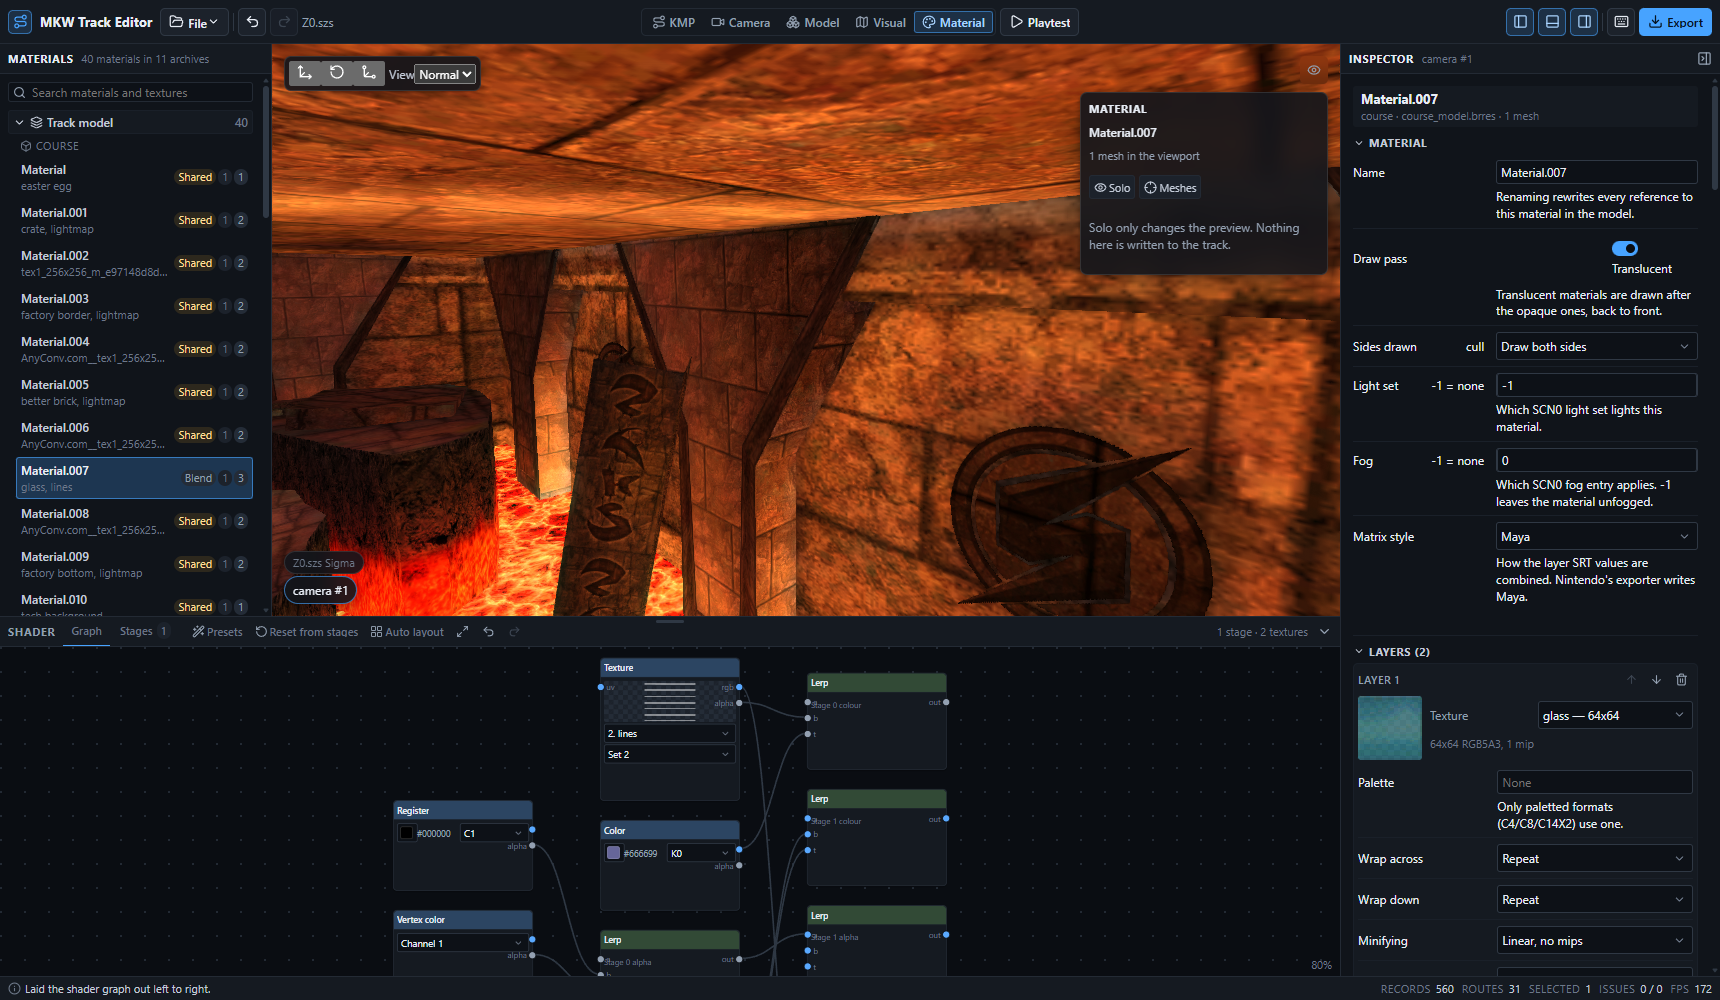
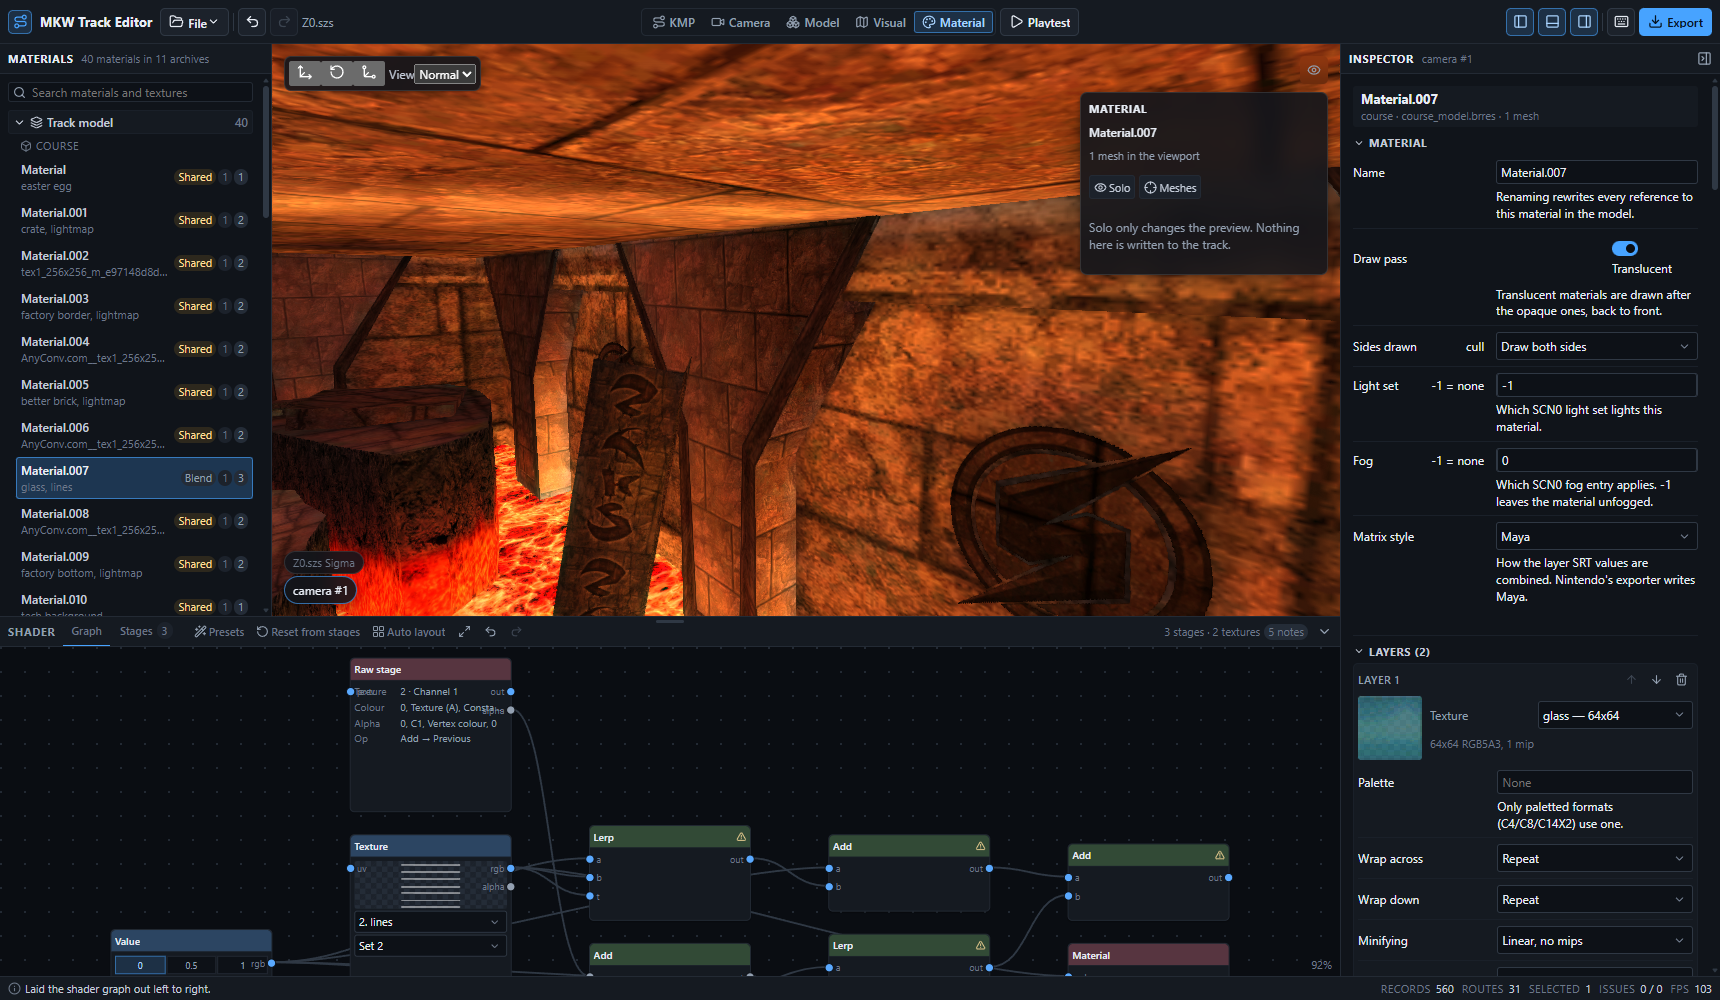
Material mode: probe the real library, refresh the screenshots and the docs
The probe now also checks the raw-stage card is read-only, applies the "Lit
texture" preset and confirms it turned channel-0 lighting on, and falls back to
the inspector's constant swatches when a material's graph has no Color node.

docs/MATERIALS.md keeps the library half's section and fills in the editor's,
with the numbers from a real run on Z0.szs.

diff --git a/scripts/probe-material-ui.js b/scripts/probe-material-ui.js
@@ -137,6 +137,12 @@ out.graphNodes = qa('.graphNode').length;
 out.graphNodeTitles = [...new Set(qa('.graphNodeTitle').map((n) => n.textContent.trim()))];
 out.graphWires = qa('.graphWire').length;
 out.graphStatus = q('.materialDockStatusText')?.textContent.trim() ?? null;
+// A stage the graph cannot express comes back as a read-only "Raw stage" card, so nothing is
+// silently lost when a material is opened.
+out.rawStageCards = qa('.graphRawStage').length;
+out.rawStageEditable = qa('.graphNode').some((n) =>
+  n.querySelector('.graphNodeTitle')?.textContent.trim() === 'Raw stage' &&
+  n.querySelector('input, select, textarea') !== null);
 out.graphZoomFit = Number(q('.graphSurface').dataset.zoom);
 out.graphZoomReadable = await zoomTo(0.95);
 await shot('material-03-graph');
@@ -298,15 +304,44 @@ if (cullSelect) {
   await sleep(900);
 }
 
-// A colour edit through the graph's constant node, which writes a konst colour on the material.
-const graphSwatch = q('.graphNode input[type="color"]');
-if (graphSwatch) {
-  setInput(graphSwatch, '#ff2f6a');
+// A colour edit, live. The graph's Color node is the nicest place to do it, but not every
+// material has one — fall back to the inspector's constant swatches, which write the same field.
+const colourSwatch = q('.graphNode input[type="color"]')
+  ?? qa('.materialInspector input[type="color"]').find((n) => /Constant colour/.test(n.getAttribute('aria-label') ?? ''));
+if (colourSwatch) {
+  out.colourEditedIn = colourSwatch.closest('.graphNode') ? 'graph' : 'inspector';
+  setInput(colourSwatch, '#ff2f6a');
   await sleep(1600);
-  out.graphColorAfter = q('.graphNode input[type="color"]')?.value ?? null;
-  out.graphColorStatus = q('.uiStatusMessage')?.textContent.trim() ?? null;
+  out.colourAfter = colourSwatch.value;
+  out.colourStatus = q('.uiStatusMessage')?.textContent.trim() ?? null;
   await shot('material-10-constant-colour');
   await sleep(900);
+}
+
+// A preset does more than swap the graph: `PRESET_WANTS_LIGHTING` says which ones also need
+// channel-0 lighting, which the graph cannot express.
+clickText('Presets', '.materialDockTools button');
+await sleep(500);
+out.presetNames = qa('.uiMenuItem, [role="menuitem"]').map((n) => n.textContent.trim());
+const litPreset = qa('.uiMenuItem, [role="menuitem"]').find((n) => /lit/i.test(n.textContent));
+if (litPreset) {
+  litPreset.click();
+  await sleep(1800);
+  out.presetStatus = q('.uiStatusMessage')?.textContent.trim() ?? null;
+  out.presetGraphNodes = qa('.graphNode').length;
+  // The Lighting section's first "Lit by scene lights" switch is channel 0's colour half.
+  const lightingSection = qa('.materialInspector .uiPanelSectionToggle').find((n) => n.textContent.includes('Lighting'));
+  if (lightingSection?.getAttribute('aria-expanded') === 'false') lightingSection.click();
+  await sleep(500);
+  // `Field` wraps the row in `.uiField`; the switch itself sits in a nested `.uiToggle` label
+  // whose own text is just "On" / "Off".
+  const litField = qa('.materialInspector .uiField').find((n) => /Lit by scene lights/.test(n.querySelector('.uiFieldLabel')?.textContent ?? ''));
+  const litSwitch = litField?.querySelector('input[role="switch"]');
+  out.presetTurnedLightingOn = litSwitch ? litSwitch.checked : null;
+  await shot('material-10b-preset-applied');
+  await sleep(900);
+} else {
+  document.body.click();
 }
 
 // Solo: hide every mesh that is not this material's.

diff --git a/docs/MATERIALS.md b/docs/MATERIALS.md
@@ -312,6 +312,8 @@ shell calls with the dock's size, collapse flag and resize handlers (`ModeBottom
 `src/ui/modes/types.ts`). The shell keeps owning that state, so the shader panel resizes and
 collapses exactly like the browser and the browser comes back untouched when the mode is left.
 
+![Back in KMP mode: the content browser is exactly where it was](screenshots/material-13-back-in-kmp.png)
+
 ### The outliner
 
 Archives in the order an author thinks about them — course model, skybox, minimap, then object
@@ -339,7 +341,7 @@ Sections, in the order an author works in:
 | Section | Fields |
 | --- | --- |
 | **Material** | Name, draw pass (opaque / translucent), which sides are drawn, SCN0 light set and fog index, texture-matrix style. |
-| **Layers** | One card per sampler: texture picker with a thumbnail, palette, wrap S/T, min/mag filter, detail (LOD) bias, sharpening (anisotropy), bias clamp, edge mips, map mode; the SRT (scale / rotation / shift, and the reference camera and light for env modes); the texgen (type, source, matrix, normalize). Add, remove and reorder. |
+| **Layers** | One card per sampler: texture picker with a thumbnail, palette (and its TLUT slot, for a paletted texture only), wrap S/T, min/mag filter, detail (LOD) bias, sharpening (anisotropy), bias clamp, edge mips, map mode; the SRT (scale / rotation / shift, and the reference camera and light for env modes); the texgen (type, source, matrix, normalize). Add, remove and reorder. |
 | **Lighting** | Per channel: material and ambient colour, then for the colour and alpha halves — lit by scene lights, where the base and ambient colour come from, falloff, attenuation, and which of the eight lights the half sees. |
 | **Colours** | The three colour registers C0..C2 (s10) and the four constants K0..K3, plus the four swap tables. |
 | **Blend & alpha** | Blend mode, source and destination factors, logic operation, the constant-alpha register, and the two-part alpha test. |
@@ -348,6 +350,14 @@ Sections, in the order an author works in:
 
 Numbers scrub (drag the field, Shift for fine, Ctrl for coarse). A drag is one history entry: the
 values during the drag are transient and only its release commits.
+
+Above the sections is a warning strip listing whatever `collectMaterialIssues` reports about the
+document right now. It is a strip and not a block on purpose: retail content really does ship
+materials whose stage samples a texture slot the material has no layer for, and writing such a
+material back unchanged has to keep working. `applyMaterial` only refuses the defects an edit
+*introduced*, and returns the rest as warnings.
+
+![The material and layer sections](screenshots/material-08-inspector.png)
 
 ![The colour registers and constants](screenshots/material-08b-inspector-colours.png)
 
@@ -380,7 +390,7 @@ TEV stage can do, so compiling is a lowering pass rather than a search.
 | **Material** | The output. Its `color` and `alpha` inputs are the last stage's result. There is exactly one, and it cannot be deleted or duplicated. |
 | **Texture** | Binds a layer and a texture-coordinate set to the stage: `TEXC` / `TEXA`. Shows the layer's thumbnail. |
 | **Vertex colour** | The rasterised lighting channel: `RASC` / `RASA`, and sets the stage's channel. |
-| **Colour** | One of the konst colours K0..K3 (`KONST`). The swatch edits the material's konst colour, so it previews live. |
+| **Colour** | One of the konst colours K0..K3 (`KONST`). The swatch edits the material's konst colour, so it previews live. Its **Advanced** block picks the exact selection (`colorSel` / `alphaSel`) for the cases the slot cannot name: the eight hardware fractions and the single-channel reads. |
 | **Register** | The starting value of C0, C1 or C2. The swatch edits the material's register. |
 | **Value** | The literals 0, 0.5 and 1, which the hardware supplies for free. |
 | **Multiply** | `a x b` — one stage, as `lerp(0, a, b)`. |
@@ -390,14 +400,21 @@ TEV stage can do, so compiling is a lowering pass rather than a search.
 | **Compare** | The TEV compare ops: `(a op b) ? c : 0`, plus `d`. |
 | **Indirect warp** | Routes an indirect stage into the texture sampled after it. |
 | **Comment** | A resizable note. Never compiles to anything. |
-| **Raw stage** | A stage the graph cannot express, kept verbatim and shown read-only, so opening a material never loses one. |
+| **Raw stage** | A stage the graph cannot express — a raster alpha read, a non-default swap table, a compare op the `compare` node does not cover. The decompiler emits one instead of guessing and the compiler copies it out verbatim. Read-only, and never in the palette. Its `prev` input carries no value; it only says which stage runs before it, so a chain of raw stages keeps its order. |
 
 Sockets carry either `rgb` or `alpha`; there is no `rgba` wire, because the colour and alpha
 pipelines are compiled separately and zipped onto the same stages. The maths nodes are
 polymorphic: every socket takes the type of whatever is wired in first, and after that they all
 agree. A wire whose types do not match is refused with a shake and a message.
 
+Nodes also carry a `stageTemplate` the decompiler fills in — the fields of a TEV stage the graph
+has no opinion about (swap tables, the indirect setup, konst and channel selections a stage names
+but never reads). The editor never shows it, but it copies it with the node, so duplicating or
+pasting a node keeps the material recompiling exactly.
+
 ![A rejected connection](screenshots/material-04b-wire-rejected.png)
+
+![A node dragged, with its wires following](screenshots/material-05-graph-node-dragged.png)
 
 #### Navigating and editing
 
@@ -424,9 +441,12 @@ The same list is in the `?` shortcut sheet (`EDITOR_SHORTCUTS`, "Shader graph").
 
 ![The add-node palette](screenshots/material-06-add-node-palette.png)
 
-The toolbar has a **Presets** menu (`SHADER_GRAPH_PRESETS`; applying one also tops the material's
-layers up to the preset's `samplerCount`), **Reset from stages** (re-runs `decompileShader`),
-**Auto layout**, fit, and the graph's own undo/redo.
+The toolbar has a **Presets** menu (`SHADER_GRAPH_PRESETS`), **Reset from stages** (re-runs
+`decompileShader`), **Auto layout**, fit, and the graph's own undo/redo.
+
+Applying a preset does more than swap the graph. It also tops the material's layers up to the
+preset's `samplerCount`, and — for the presets in `PRESET_WANTS_LIGHTING` — turns lighting on for
+channel 0, which is material state the graph has no way to express.
 
 **Auto layout** is left-to-right and "as late as possible": a node's column is set by how far it
 still is from the Material node, so a texture feeding the last stage sits beside that stage rather
@@ -486,7 +506,8 @@ Every committed edit is one history entry:
    editor history through `history.applyEditorChange` — the same path Visual mode's texture
    replacement uses, so undo and export both see it,
 3. the rewritten archive is pushed at the renderer (below),
-4. any `warnings` the encoder returns are toasted, once per distinct message.
+4. any `warnings` the encoder returns are toasted, once per distinct message — including the
+   pre-existing defects it decided to write back rather than refuse.
 
 Continuous drags coalesce: `NumberInput`'s `onChange` marks the edit transient (working document
 only) and its `onCommit` — fired once, on release — does the four steps above.
@@ -497,6 +518,8 @@ mode keeps a `WeakMap<TrackDocument, docs>` instead and puts the exact document 
 version back.
 
 ![Editing the culling, live](screenshots/material-09-cull-draw-nothing.png)
+
+![And back again after Ctrl+Z](screenshots/material-12-after-undo.png)
 
 ### Live preview
 
@@ -544,6 +567,10 @@ which can only replace pixels at the same size and format.
 - The `Solo` toggle and the mesh highlight use the per-draw visibility overrides Model mode
   introduced (`setEditorMeshVisible` / `setEditorMeshHighlight`). Leaving the mode clears both.
 
+![A constant colour edited live](screenshots/material-10-constant-colour.png)
+
+![A preset applied](screenshots/material-10b-preset-applied.png)
+
 ![Solo: every other mesh hidden](screenshots/material-11-solo.png)
 
 ### Tests and the browser probe
@@ -552,8 +579,8 @@ Pure logic is unit tested with no DOM (`npm test`):
 
 | File | Covers |
 | --- | --- |
-| `src/ui/material/graphModel.test.ts` | Node geometry and hit testing, marquee, socket typing and the polymorphic maths nodes, every connection rule (side, self, cycle, type), edge replacement, delete / move / snap / duplicate / copy / paste, pan-zoom-fit maths, auto layout. |
-| `src/ui/material/materialDoc.test.ts` | Every inspector field → document mapping, colour conversion in both directions, the layer list's add / remove / reorder, the light mask. |
+| `src/ui/material/graphModel.test.ts` | Node geometry and hit testing, marquee, socket typing and the polymorphic maths nodes, every connection rule (side, self, cycle, type), edge replacement, delete / move / snap / duplicate / copy / paste (including `stageTemplate` surviving both), pan-zoom-fit maths, auto layout, and the raw-stage node's shape. |
+| `src/ui/material/materialDoc.test.ts` | Every inspector field → document mapping, colour conversion in both directions, the layer list's add / remove / reorder, the light mask, and the preset's channel-0 lighting. |
 | `src/ui/material/materialOutlinerModel.test.ts` | Archive naming and ordering, the tree, the search, the shared-shader badge, reference keys. |
 | `src/ui/material/graphStore.test.ts` | The stage hash and both storage keys. |
 | `src/ui/material/MaterialInspector.test.tsx` | The inspector, the outliner, the dock's tab state and the stage table, rendered with `renderToStaticMarkup`; includes the assertion that no raw GX enum identifier reaches the user. |
@@ -569,7 +596,15 @@ PROBE_PREFIX=material PROBE_PORT=9352 PROBE_SIZE=1720x1000 \
 ```
 
 It enters the mode, resizes the dock, reads the outliner, searches, selects a material, reads the
-graph and the stage table, drags a node, connects a wire and gets one rejected, opens and filters
-the palette, adds a node, runs auto layout, zooms, opens every inspector section, edits the
-culling and a constant colour, solos, undoes back, and leaves the mode — reporting every number it
-saw and writing the screenshots in this document.
+graph and the stage table, checks the raw-stage card is read-only, drags a node, connects a wire
+and gets one rejected, opens and filters the palette, adds a node, runs auto layout, zooms, opens
+every inspector section, edits the culling and a constant colour, applies the lit preset and
+checks it turned channel-0 lighting on, solos, undoes back, leaves the mode and reads the stored
+graphs out of IndexedDB — reporting every number it saw and writing the screenshots in this
+document.
+
+A run on `Z0.szs` at the time of writing: 40 materials in 11 archives, 35 of them sharing a shader
+block; the selected material decompiles to 13 nodes and 22 wires including one raw stage, compiles
+back to its own 3 stages, and its `Draw nothing` culling edit reaches the viewport through
+`reloadEditorMaterial` (the status line says nothing about reloading the track) and comes back on
+`Ctrl+Z`.
